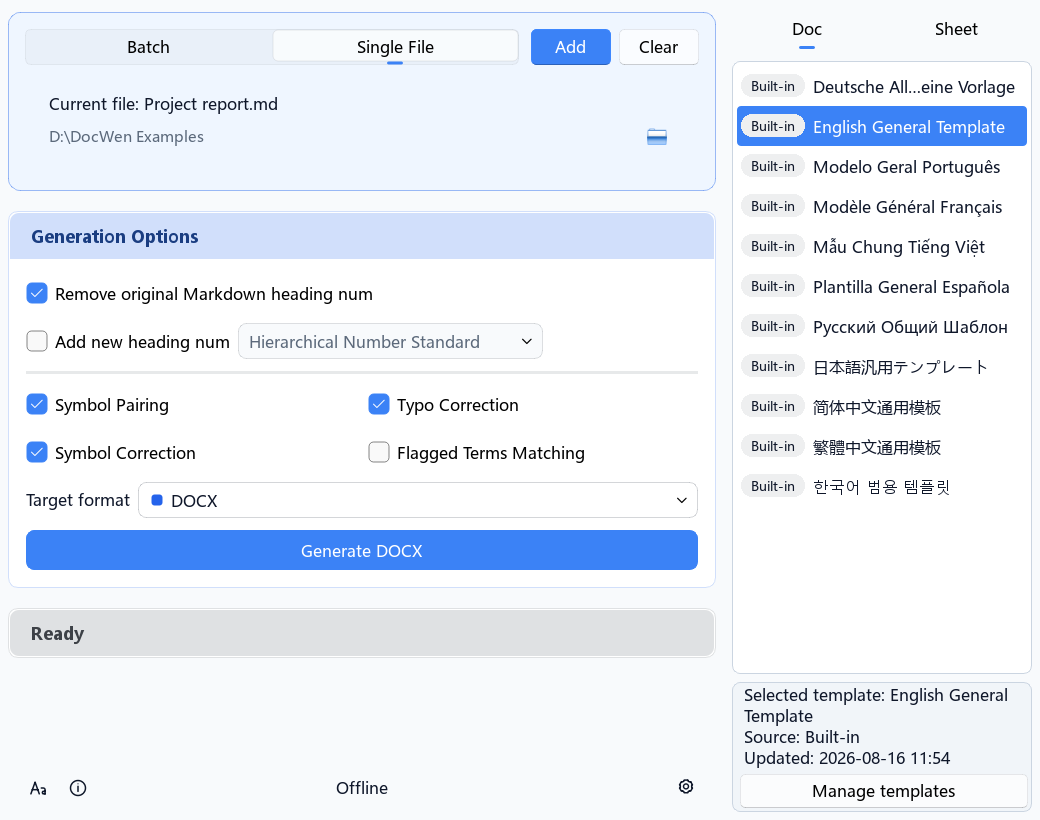
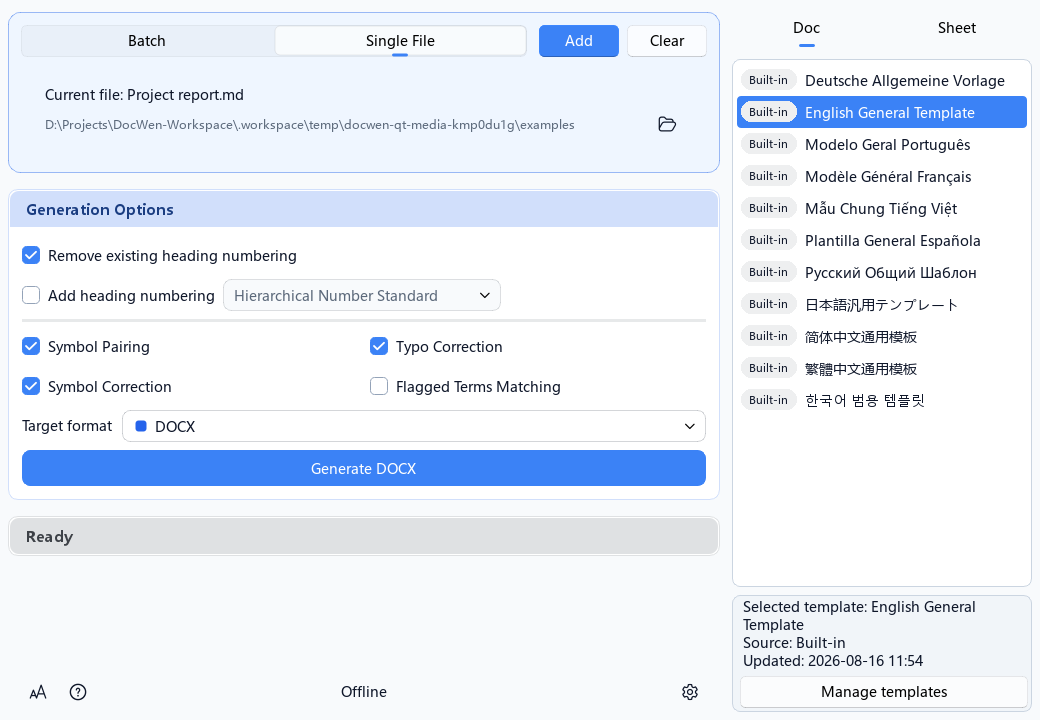
chore(release): prepare integrated DocWen 0.14.0 candidate

diff --git a/tests/test_repo/test_msix_packaging.py b/tests/test_repo/test_msix_packaging.py
@@ -87,7 +87,7 @@ def test_store_config_and_manifest_bind_partner_center_identity() -> None:
     assert identity.attrib == {
         "Name": "ZHYX.DocWen",
         "Publisher": "CN=9E46E7F1-F057-4B88-BF71-7C9CB77AF9C6",
-        "Version": "1.0.7.0",
+        "Version": "1.0.8.0",
         "ProcessorArchitecture": "x64",
     }
     target = manifest.find("f:Dependencies/f:TargetDeviceFamily", namespaces)
@@ -206,7 +206,7 @@ def _inspection_receipt(tmp_path: Path, archive: Path) -> Path:
                 "stage": "candidate-verified",
                 "provenance": "verified",
                 "repository": "ZHYX91/docwen",
-                "version": "0.13.1",
+                "version": "0.14.0",
                 "sourceCommit": "a" * 40,
                 "manifestSha256": "b" * 64,
                 "artifactId": 20,
@@ -310,7 +310,7 @@ def test_portable_candidate_rejects_unsafe_entries_before_extraction(tmp_path: P
     receipt = _inspection_receipt(tmp_path, archive)
     output = tmp_path / "extracted"
     with pytest.raises(PublicationError):
-        extract_candidate(archive, receipt, output, version="0.13.1")
+        extract_candidate(archive, receipt, output, version="0.14.0")
     assert not output.exists()
     assert not (tmp_path / "escaped.txt").exists()
 
@@ -318,7 +318,7 @@ def test_portable_candidate_rejects_unsafe_entries_before_extraction(tmp_path: P
 @pytest.mark.parametrize("failure", ["changed-archive", "uninspected", "wrong-version"])
 def test_portable_candidate_requires_inspected_bytes_and_version(tmp_path: Path, failure: str) -> None:
     archive, receipt = _portable_candidate(tmp_path, _fake_payload(tmp_path / "payload"))
-    version = "0.13.1"
+    version = "0.14.0"
     if failure == "changed-archive":
         with archive.open("ab") as stream:
             stream.write(b"changed")
@@ -372,7 +372,7 @@ def test_msix_build_failure_retains_an_owned_run_and_does_not_overwrite_output(t
 def test_checked_in_store_config_is_stable_json() -> None:
     config = json.loads(_CONFIG_PATH.read_text(encoding="utf-8"))
     assert config["storeId"] == "9NR2211SJH97"
-    assert config["sourceVersion"] == "0.13.1"
+    assert config["sourceVersion"] == "0.14.0"
 
 
 def test_package_content_identity_ignores_zip_timestamps(tmp_path: Path) -> None:

diff --git a/tests/test_repo/test_linux_production_archive.py b/tests/test_repo/test_linux_production_archive.py
@@ -75,8 +75,8 @@ def test_linux_production_contract_schema_and_two_versioned_assets_are_frozen() 
         "platformTag": "linux-x64",
     }
     assert [artifact["archiveName"] for artifact in manifest["artifacts"]] == [
-        "DocWen-0.13.1-linux-x64.tar.gz",
-        "DocWenCLI-0.13.1-linux-x64.tar.gz",
+        "DocWen-0.14.0-linux-x64.tar.gz",
+        "DocWenCLI-0.14.0-linux-x64.tar.gz",
     ]
     assert [artifact["entryPoints"] for artifact in manifest["artifacts"]] == [
         ["DocWen", "DocWenCLI"],
@@ -123,7 +123,7 @@ def test_linux_archives_are_byte_identical_and_normalize_every_header(tmp_path: 
         embedded = json.loads(archive.extractfile(f"{root}/manifest.json").read())
         checksums = archive.extractfile(f"{root}/SHA256SUMS.txt").read().decode("utf-8")
         assert embedded["schema"] == "docwen.linux.payload.v1"
-        assert embedded["product"] == {"name": "DocWen", "version": "0.13.1"}
+        assert embedded["product"] == {"name": "DocWen", "version": "0.14.0"}
         assert embedded["artifact"]["archiveName"] == artifact["archiveName"]
         assert [row["path"] for row in embedded["files"]] == sorted(
             [row["path"] for row in embedded["files"]], key=lambda value: value.encode("utf-8")
@@ -167,7 +167,7 @@ def test_archive_helper_cli_emits_machine_readable_identity(tmp_path: Path, caps
     )
     result = json.loads(capsys.readouterr().out)
     assert result["artifactId"] == "cli-only"
-    assert result["archiveName"] == "DocWenCLI-0.13.1-linux-x64.tar.gz"
+    assert result["archiveName"] == "DocWenCLI-0.14.0-linux-x64.tar.gz"
     assert result["sha256"] == hashlib.sha256(destination.read_bytes()).hexdigest()
 
 

diff --git a/tests/test_repo/test_windows_production_manifest.py b/tests/test_repo/test_windows_production_manifest.py
@@ -19,7 +19,7 @@ MANIFEST = ROOT / "release" / "windows-production-manifest.v1.json"
 
 def test_windows_production_manifest_has_one_offline_asset_and_fixed_epoch() -> None:
     manifest = production.read_manifest(MANIFEST)
-    assert manifest["product"]["version"] == "0.13.1"
+    assert manifest["product"]["version"] == "0.14.0"
     assert manifest["product"]["releaseTagFormat"] == "{version}"
     assert manifest["product"]["cliJsonProtocolVersion"] == 3
     assert manifest["build"]["mode"] == "pure-python"
@@ -29,8 +29,8 @@ def test_windows_production_manifest_has_one_offline_asset_and_fixed_epoch() -> 
     assert "DocWenCLI-windows-x64.zip" not in json.dumps(manifest)
     assert manifest["releaseAssetAllowlist"] == [
         "DocWen-windows-x64.zip",
-        "DocWenCLI-0.13.1-linux-x64.tar.gz",
-        "DocWen-0.13.1-linux-x64.tar.gz",
+        "DocWenCLI-0.14.0-linux-x64.tar.gz",
+        "DocWen-0.14.0-linux-x64.tar.gz",
         "SHA256SUMS.txt",
     ]
     assert manifest["toolchain"]["python"] == {

diff --git a/tests/test_repo/test_workspace_entrypoint_dependencies.py b/tests/test_repo/test_workspace_entrypoint_dependencies.py
@@ -78,13 +78,13 @@ def test_root_distribution_builds_without_flat_layout_discovery(tmp_path: Path) 
     )
 
     assert completed.returncode == 0, completed.stdout + completed.stderr
-    wheels = list(wheel_dir.glob("docwen-0.13.1-*.whl"))
+    wheels = list(wheel_dir.glob("docwen-0.14.0-*.whl"))
     assert len(wheels) == 1
     with zipfile.ZipFile(wheels[0]) as archive:
         names = archive.namelist()
         assert not any(name.startswith("assets/") for name in names)
         assert not any(name.startswith("packages/") for name in names)
-        entry_points = archive.read("docwen-0.13.1.dist-info/entry_points.txt").decode("utf-8")
+        entry_points = archive.read("docwen-0.14.0.dist-info/entry_points.txt").decode("utf-8")
     assert "docwen = docwen_bundle.cli_entry:main" in entry_points
     assert "docwen-gui = docwen_bundle.gui_entry:main" in entry_points
 

diff --git a/packages/apps/cli/tests/test_cli_info_v3.py b/packages/apps/cli/tests/test_cli_info_v3.py
@@ -29,7 +29,7 @@ def test_info_json_does_not_initialize_runtime(capsys: pytest.CaptureFixture[str
     assert payload["command"] == "info"
     assert payload["protocol_version"] == 3
     assert payload["data"]["protocol"]["major"] == 3
-    assert payload["data"]["product"]["version"] == "0.13.1"
+    assert payload["data"]["product"]["version"] == "0.14.0"
     capabilities = {item["id"]: item for item in payload["data"]["capabilities"]}
     assert capabilities["cli.schema"] == {
         "id": "cli.schema",
@@ -139,7 +139,7 @@ def test_version_is_lightweight(argv: list[str], capsys: pytest.CaptureFixture[s
 
     captured = capsys.readouterr()
     assert exit_code == 0
-    assert captured.out.strip() == "DocWen 0.13.1 (CLI protocol 3)"
+    assert captured.out.strip() == "DocWen 0.14.0 (CLI protocol 3)"
     assert captured.err == ""
 
 

diff --git a/packages/apps/cli/tests/test_cli_protocol_v3.py b/packages/apps/cli/tests/test_cli_protocol_v3.py
@@ -17,7 +17,7 @@ def test_protocol_envelope_has_exact_top_level_shape() -> None:
 
     assert envelope == {
         "protocol_version": 3,
-        "product_version": "0.13.1",
+        "product_version": "0.14.0",
         "success": True,
         "command": "info",
         "data": {"ready": True},
@@ -40,7 +40,7 @@ def test_json_presenter_emits_typed_protocol_error(capsys: pytest.CaptureFixture
 
     payload = json.loads(capsys.readouterr().out)
     assert payload["protocol_version"] == 3
-    assert payload["product_version"] == "0.13.1"
+    assert payload["product_version"] == "0.14.0"
     assert payload["error"] == {
         "category": "unavailable",
         "code": "gui_not_running",

diff --git a/packages/apps/cli/tests/test_cli_json.py b/packages/apps/cli/tests/test_cli_json.py
@@ -29,7 +29,7 @@ def test_success_envelope_exact_shape(capsys: pytest.CaptureFixture[str]) -> Non
     payload = json.loads(capsys.readouterr().out)
     assert set(payload) == REQUIRED_FIELDS
     assert payload["protocol_version"] == 3
-    assert payload["product_version"] == "0.13.1"
+    assert payload["product_version"] == "0.14.0"
     assert payload["success"] is True
     assert payload["error"] is None
     assert payload["meta"] == {}

diff --git a/packages/apps/cli/tests/test_cli_json_golden.py b/packages/apps/cli/tests/test_cli_json_golden.py
@@ -16,7 +16,7 @@ def test_info_golden(capsys: pytest.CaptureFixture[str]) -> None:
     payload = json.loads(capsys.readouterr().out)
 
     assert payload["protocol_version"] == 3
-    assert payload["product_version"] == "0.13.1"
+    assert payload["product_version"] == "0.14.0"
     assert payload["command"] == "info"
     assert payload["success"] is True
     assert payload["data"]["protocol"] == {"major": 3, "envelope": "docwen.cli.v3"}

diff --git a/packages/application/tests/test_application_imports.py b/packages/application/tests/test_application_imports.py
@@ -11,7 +11,7 @@ def test_application_importable() -> None:
     """docwen_application should be importable."""
     import docwen_application
 
-    assert docwen_application.__version__ == "0.13.1"
+    assert docwen_application.__version__ == "0.14.0"
 
 
 def test_application_submodules_importable() -> None:

diff --git a/tests/test_cli/test_cli_e2e.py b/tests/test_cli/test_cli_e2e.py
@@ -81,7 +81,7 @@ def _payload(proc) -> dict[str, object]:
     value = json.loads(proc.stdout)
     assert isinstance(value, dict)
     assert value["protocol_version"] == 3
-    assert value["product_version"] == "0.13.1"
+    assert value["product_version"] == "0.14.0"
     return value
 
 

diff --git a/packages/runtime/tests/test_runtime_imports.py b/packages/runtime/tests/test_runtime_imports.py
@@ -9,7 +9,7 @@ def test_runtime_importable() -> None:
     """docwen_runtime should be importable."""
     import docwen_runtime
 
-    assert docwen_runtime.__version__ == "0.13.1"
+    assert docwen_runtime.__version__ == "0.14.0"
 
 
 def test_runtime_submodules_importable() -> None:

diff --git a/packages/apps/gui/tests/test_gui_imports.py b/packages/apps/gui/tests/test_gui_imports.py
@@ -9,7 +9,7 @@ def test_gui_importable() -> None:
     """docwen_gui top-level package should be importable."""
     import docwen_gui
 
-    assert docwen_gui.__version__ == "0.13.1"
+    assert docwen_gui.__version__ == "0.14.0"
 
 
 def test_app_module_import() -> None:
